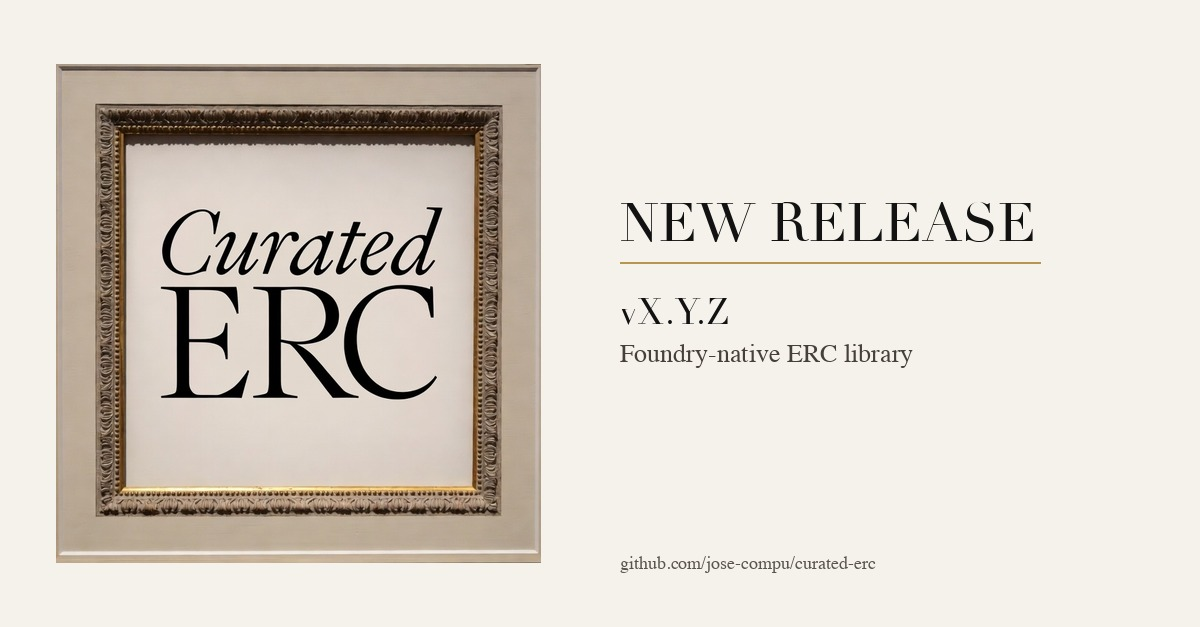
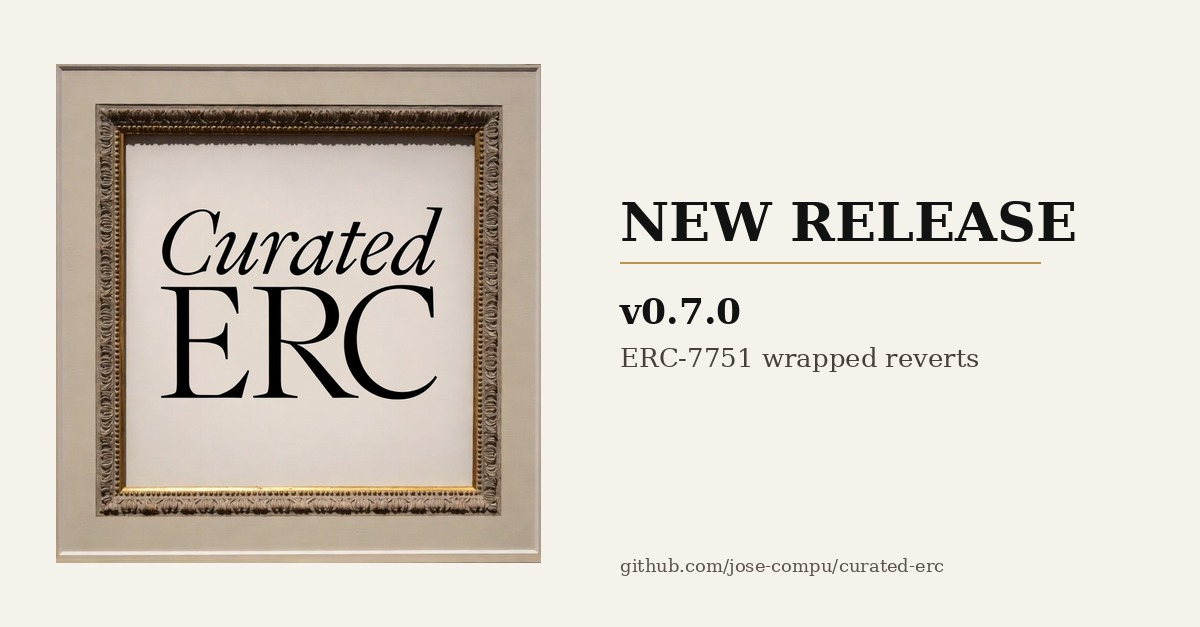
feat(utils): add ERC-7751 wrapped revert library (v0.7.0)
Implement ERC7751 with WrappedError (0x90bfb865), bubbleRevert helpers,
tests for nested Token/Vault/Router vector, empty details, ETH transfer
selector, and ABI-encoded details. Bump package and site docs; Linux
font fallback for LinkedIn banner script.

Closes #34

diff --git a/website/index.html b/website/index.html
@@ -39,15 +39,15 @@
       <section class="hero" id="hall">
         <div class="hero-plinth" aria-hidden="true"></div>
         <div class="hero-copy">
-          <p class="eyebrow">Permanent Collection · v0.6.1</p>
+          <p class="eyebrow">Permanent Collection · v0.7.0</p>
           <h1>
             <span class="line">An exhibition of</span>
             <span class="line accent">Ethereum standards</span>
             <span class="line">worth framing.</span>
           </h1>
           <p class="lede">
-            Seventeen ERCs with demonstrated on-chain traction—including ERC-4626 vaults
-            hardened after the 0.6.1 audit. Foundry-tested, ready for your protocol walls.
+            Eighteen ERCs with demonstrated on-chain traction—including ERC-7751 wrapped
+            reverts and ERC-4626 vaults. Foundry-tested, ready for your protocol walls.
           </p>
           <div class="hero-actions">
             <a class="btn btn-primary" href="#collection">Enter the gallery</a>
@@ -56,11 +56,11 @@
         </div>
         <div class="hero-stats" aria-label="Collection statistics">
           <div class="stat">
-            <span class="stat-value" data-count="17">0</span>
+            <span class="stat-value" data-count="18">0</span>
             <span class="stat-label">Works on display</span>
           </div>
           <div class="stat">
-            <span class="stat-value" data-count="378">0</span>
+            <span class="stat-value" data-count="416">0</span>
             <span class="stat-label">Tests passing</span>
           </div>
           <div class="stat">

diff --git a/website/js/catalog.js b/website/js/catalog.js
@@ -132,6 +132,19 @@ export const CATALOG = [
     palette: ["#f5f5f0", "#a8a89e", "#5c5c54", "#1a1a18"],
   },
   {
+    id: "erc7751",
+    number: 7751,
+    name: "Wrapped Reverts",
+    category: "Infrastructure hall",
+    wing: "infra",
+    tagline: "Errors with context",
+    description:
+      "EIP-7751 WrappedError bubble-up—target, called selector, raw revert bytes, and optional ABI-encoded details for nested failures.",
+    path: "utils/ERC7751",
+    eip: "https://eips.ethereum.org/EIPS/eip-7751",
+    palette: ["#f5ebe0", "#c9a27a", "#7a4f2e", "#2a1810"],
+  },
+  {
     id: "erc2771",
     number: 2771,
     name: "Meta Transactions",

diff --git a/scripts/render-linkedin-banner.py b/scripts/render-linkedin-banner.py
@@ -26,6 +26,39 @@ GOLD = (184, 149, 80)
 DIDOT = "/System/Library/Fonts/Supplemental/Didot.ttc"
 TIMES = "/Library/Fonts/Times.ttc"
 
+# Linux (and other non-macOS) fallbacks — serif pairing similar to Didot + Times
+LINUX_DISPLAY = (
+    "/usr/share/fonts/truetype/dejavu/DejaVuSerif-Bold.ttf",
+    "/usr/share/fonts/truetype/liberation/LiberationSerif-Bold.ttf",
+)
+LINUX_BODY = (
+    "/usr/share/fonts/truetype/dejavu/DejaVuSerif.ttf",
+    "/usr/share/fonts/truetype/liberation/LiberationSerif-Regular.ttf",
+)
+
+
+def _pick_font(candidates: tuple[str, ...], size: int) -> ImageFont.FreeTypeFont:
+    for path in candidates:
+        if Path(path).is_file():
+            return ImageFont.truetype(path, size)
+    raise FileNotFoundError(f"no font found among: {candidates}")
+
+
+def _load_fonts() -> tuple[ImageFont.FreeTypeFont, ImageFont.FreeTypeFont, ImageFont.FreeTypeFont, ImageFont.FreeTypeFont]:
+    if Path(DIDOT).is_file() and Path(TIMES).is_file():
+        return (
+            ImageFont.truetype(DIDOT, 54),
+            ImageFont.truetype(DIDOT, 36),
+            ImageFont.truetype(TIMES, 26),
+            ImageFont.truetype(TIMES, 18),
+        )
+    return (
+        _pick_font(LINUX_DISPLAY, 54),
+        _pick_font(LINUX_DISPLAY, 36),
+        _pick_font(LINUX_BODY, 26),
+        _pick_font(LINUX_BODY, 18),
+    )
+
 
 def main() -> None:
     parser = argparse.ArgumentParser()
@@ -43,10 +76,7 @@ def main() -> None:
     canvas.paste(logo, (56, (H - logo.height) // 2))
 
     draw = ImageDraw.Draw(canvas)
-    title = ImageFont.truetype(DIDOT, 54)
-    sub = ImageFont.truetype(DIDOT, 36)
-    body = ImageFont.truetype(TIMES, 26)
-    small = ImageFont.truetype(TIMES, 18)
+    title, sub, body, small = _load_fonts()
 
     tx, ty = 620, 190
     draw.text((tx, ty), "NEW RELEASE", font=title, fill=INK)

diff --git a/README.md b/README.md
@@ -4,9 +4,11 @@
 
 # Curated ERC
 
-> v0.6.1
+> v0.7.0
 
 Canonical implementations of ERCs with real on-chain traction. Foundry-native, Solidity-tested.
+
+Release banner (v0.7.0): [`img/linkedin-release-banner.jpg`](img/linkedin-release-banner.jpg).
 
 ## The Gap
 
@@ -34,6 +36,7 @@ Curated ERC Contracts fills that gap.
 | 3525 | Semi-Fungible Token | Token (ERC-721 compatible) |
 | 1271 | Signature Validation for Contracts | Cryptography |
 | 6492 | Predeploy Signature Validation | Cryptography |
+| 7751 | Wrapping of Bubbled Reverts | Utils / Error handling |
 | 2771 | Meta Transactions | Context / Gasless UX |
 | 3156 | Flash Loans | DeFi / Finance |
 | 4626 | Tokenized Vaults | DeFi / Finance |
@@ -43,7 +46,7 @@ Curated ERC Contracts fills that gap.
 | 7818 | Expirable ERC-20 | Token (ERC-20 extension) |
 | 8004 | Trustless Agents | AI Agents (identity, reputation, validation) |
 
-17 standards implemented (non-upgradeable + upgradeable where applicable). Full plan across 40+ ERCs in [ROADMAP.md](./ROADMAP.md). Release history in [CHANGELOG.md](./CHANGELOG.md).
+18 standards implemented (non-upgradeable + upgradeable where applicable). Full plan across 40+ ERCs in [ROADMAP.md](./ROADMAP.md). Release history in [CHANGELOG.md](./CHANGELOG.md).
 
 ## Structure
 
@@ -73,6 +76,7 @@ src/
 │   └── ERC8004ValidationRegistry(.sol|Upgradeable.sol)
 └── utils/
     ├── cryptography/     # ERC-1271 + ERC-6492 Signature validation
+    ├── ERC7751.sol       # ERC-7751 bubbled revert wrapping
     └── StorageSlot7201.sol
 ```
 
@@ -81,7 +85,7 @@ Each ERC typically ships as:
 - `ERC*.sol` — Non-upgradeable implementation (abstract base or deployable contract)
 - `ERC*Upgradeable.sol` — Upgradeable (Initializable + ERC-7201 namespaced storage)
 
-Exceptions: **ERC-4361** exposes a library (`SIWE`) plus `SIWEParser` and `SIWEVerifier`; **ERC-6492** and **ERC-7201** are libraries/utilities; **ERC-8004** ships three deployable registry contracts per variant.
+Exceptions: **ERC-4361** exposes a library (`SIWE`) plus `SIWEParser` and `SIWEVerifier`; **ERC-6492**, **ERC-7201**, and **ERC-7751** are libraries/utilities; **ERC-8004** ships three deployable registry contracts per variant.
 
 ## Installation
 
@@ -189,6 +193,22 @@ contract MyVault is ERC4626 {
 
 `previewDeposit` / `previewMint` / `previewWithdraw` / `previewRedeem` report the exchange before execution. The base uses a virtual offset so an empty vault cannot be inflated by a first-depositor donation. ERC-2612 permit and fee-on-transfer assets are left to subclasses.
 
+**ERC-7751 (Wrapped reverts)** — bubble inner failures with structured context:
+
+```solidity
+import {ERC7751} from "curated-erc/utils/ERC7751.sol";
+
+try token.transfer(to, amount) {} catch (bytes memory err) {
+    ERC7751.bubbleRevert(
+        address(token),
+        abi.encodeCall(token.transfer, (to, amount)),
+        err,
+        ""
+    );
+    // or: ERC7751.revertWithWrappedError(target, selector, err, details);
+}
+```
+
 ### Hardhat
 
 The recommended path is the [`@nomicfoundation/hardhat-foundry`](https://hardhat.org/hardhat-runner/plugins/nomicfoundation-hardhat-foundry) plugin, which lets Hardhat read `remappings.txt` and resolve imports from the `lib/` folder directly — no duplicate OpenZeppelin installs.
@@ -255,7 +275,7 @@ Hardhat will compile the contracts in `node_modules/curated-erc` when resolving 
 ```bash
 forge install
 forge build    # via-ir enabled for stack-heavy registry contracts
-forge test -vv # 410 tests (unit + fuzz)
+forge test -vv # 416 tests (unit + fuzz)
 ```
 
 ## Dependencies

diff --git a/ROADMAP.md b/ROADMAP.md
@@ -60,7 +60,7 @@ Status is refreshed against **Final** ERCs with 2026 on-chain / protocol tractio
 |-----|------|--------|
 | 7092 | Financial Bonds | 🔲 [#31](https://github.com/jose-compu/curated-erc/issues/31) |
 | 3475 | Abstract Storage Bonds | 🔲 [#58](https://github.com/jose-compu/curated-erc/issues/58) |
-| 7751 | Wrapping Bubbled Reverts | 🔲 [#34](https://github.com/jose-compu/curated-erc/issues/34) |
+| 7751 | Wrapping Bubbled Reverts | ✅ Done (v0.7.0) |
 | 7818 | Expirable ERC-20 | ✅ Done |
 | 8042 | Diamond Storage | 🔲 [#30](https://github.com/jose-compu/curated-erc/issues/30) |
 
@@ -85,7 +85,9 @@ Queued so the next tags do not require another brainstorm. Existing issues stay 
 
 **v0.6.0** — ERC-4626 tokenized vaults. Shipped.
 
-**v0.7.0 utilities** — ERC-5267 EIP-712 domain ([#56](https://github.com/jose-compu/curated-erc/issues/56)), ERC-7751 bubbled reverts ([#34](https://github.com/jose-compu/curated-erc/issues/34)), ERC-8042 diamond storage ([#30](https://github.com/jose-compu/curated-erc/issues/30)).
+**v0.7.0** — ERC-7751 bubbled reverts shipped ([#34](https://github.com/jose-compu/curated-erc/issues/34)).
+
+**v0.7.x utilities (queued)** — ERC-5267 EIP-712 domain ([#56](https://github.com/jose-compu/curated-erc/issues/56)), ERC-8042 diamond storage ([#30](https://github.com/jose-compu/curated-erc/issues/30)).
 
 **Later minors** — ERC-6909 ([#55](https://github.com/jose-compu/curated-erc/issues/55)), ERC-7943 uRWA ([#40](https://github.com/jose-compu/curated-erc/issues/40)), ERC-5006 ([#32](https://github.com/jose-compu/curated-erc/issues/32)).
 

diff --git a/CHANGELOG.md b/CHANGELOG.md
@@ -1,5 +1,11 @@
 # Changelog
 
+## [0.7.0] — 2026-11-15
+
+### Added
+
+- **ERC-7751** — Wrapping of bubbled up reverts: `ERC7751` library with `WrappedError` (selector `0x90bfb865`), `bubbleRevert`, and nested revert tests ([#TBD](https://github.com/jose-compu/curated-erc/pull/TBD), closes [#34](https://github.com/jose-compu/curated-erc/issues/34))
+
 ## [0.6.1] — 2026-10-10
 
 ### Security
